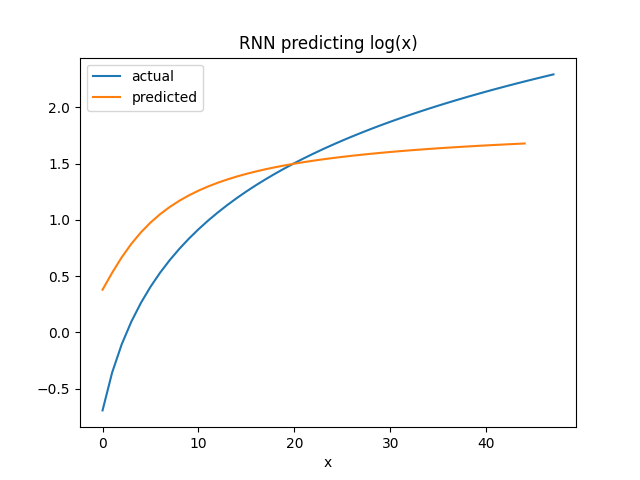
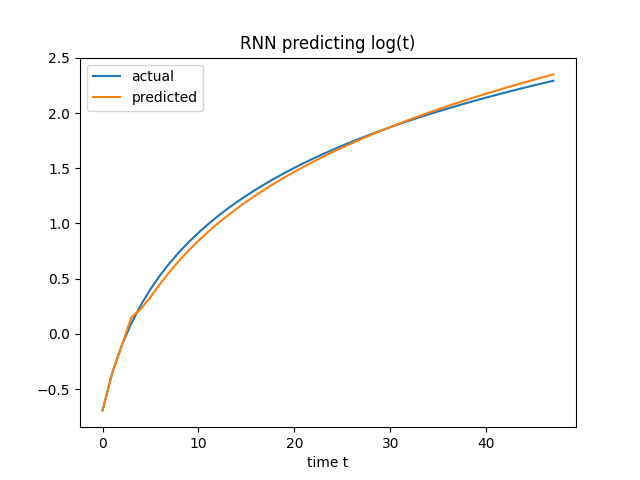
updated writeup

diff --git a/SMDL/Day1/lessons/task4/main.py b/SMDL/Day1/lessons/task4/main.py
@@ -5,9 +5,9 @@ import pandas as pd
 from tensorflow.keras.models import Model
 from tensorflow.keras.layers import Input, LSTM, Dense
 
-# using LSTM to learn a function
-def f(x):
-   return np.log(x)
+# using LSTM to learn this function
+def f(t):
+    return np.log(t)
 
 
 my_data = f(np.arange(0.5, 10, .2))
@@ -23,31 +23,36 @@ print(df_windowed.head())
 X = df_windowed.iloc[:, :-1].values
 y = df_windowed.iloc[:, -1].values
 
-# RNN needs a 3D tensor
+# RNN needs a 3D input tensor
 # For time series:
 # [batch, sequence_len] -> [batch, sequence_len, features]
 # For text, the embedding layer takes care of it:
 # [batch, sequence_len, word_vector_size]
 n_features = 1
-X = X.reshape(X.shape[0], sequence_len, n_features)
+X_rnn = X.reshape(X.shape[0], sequence_len, n_features)
 
 # define the model
 model_input = Input(shape=(sequence_len, n_features,))
-x = LSTM(8)(model_input)
+x = LSTM(8, activation='relu')(model_input)
 x = Dense(1)(x)
 model = Model(model_input, x)
 model.summary()
 
 # train
 model.compile(loss='mse', optimizer='adam')
-model.fit(X, y, epochs=10, batch_size=2)
+model.fit(X_rnn, y, epochs=10, batch_size=2)
 
 # predictions
-preds = model.predict(X)
-plt.title('RNN predicting log(x)')
+preds = model.predict(X_rnn)
+
+# prepend the first window because we did not predict it
+# everything else is predicted by the first window onwards
+preds = np.concatenate((X[0], preds.flatten()))
+
+plt.title('RNN predicting log(t)')
 plt.plot(my_data, label='actual')
 plt.plot(preds, label='predicted')
-plt.xlabel('x')
+plt.xlabel('time t')
 plt.legend()
 plt.savefig('predictions.png')
 plt.show()

diff --git a/SMDL/Day1/lessons/task4/task.md b/SMDL/Day1/lessons/task4/task.md
@@ -1,3 +1,25 @@
 ## LSTMs as Sequence Learners
 
+An LSTM (or a GRU) can be used to learn a sequential function. 
+
+`main.py` shows an example of an RNN used to predict the log(t) function, using a timestep of 3:
 ![predictions](predictions.png)
+
+Unlike a multi-layer perceptron (MLP) which assumes inputs are independent, LSTMs (or GRUs) will receive both an input from the current timestep and a hidden state from the previous timestep. To enable this, we formulate the input shape for LSTMs (GRUs) as (batch, timesteps, features).
+
+|Neuron Type|Input Shape|What is Learnt|
+|---|---|---|
+|RNN (LSTM/GRU)|Rows are independent, but each row contains N timesteps|Weighted combination of input features, PLUS hidden state from previous timestep. Longer-term sequential relationships.|
+|MLP|Rows are independent|Weighted combination of input features only. No sequential concept assumed.|
+|Convolution|Rows are independent, but each row contains N timesteps|Small filters slided across the timesteps. Short-term sequential relationships.|
+
+### Input Shapes for Sequence Learners
+
+The following summarises how to setup the input shapes for learning time sequences vs. text sequences.
+
+![input_shape](input_shape.png)
+
+|Domain|Input shape|
+|---|---|
+|Time Series|3-dimensional input of (batch, timesteps, features)|
+|Text|2-dimensional input of (batch, sequence_length), passed into an Embedding layer, which will convert it to a 3-dimensional input of (batch, sequence_length, word_vector_dimension)|
